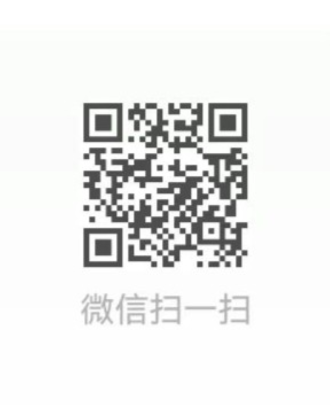
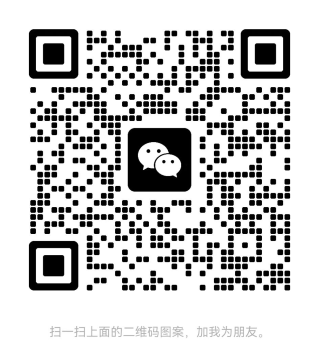
update README.md

diff --git a/README.md b/README.md
@@ -118,7 +118,7 @@ git push origin feature/your-feature-name
 ## 八、项目维护与支持
 #### 1. 线路需求: 有线路需求可以联系作者
 #### 2. GitHub Issues：提交功能需求或 Bug 反馈。
-#### 3. 星球咨询: 有业务需求定制化开发可以联系作者，或者加星球咨询
+#### 3. 微信咨询: 有业务需求定制化开发可以联系作者
 ![星球](image.png)
 
 ### 捐献作者
